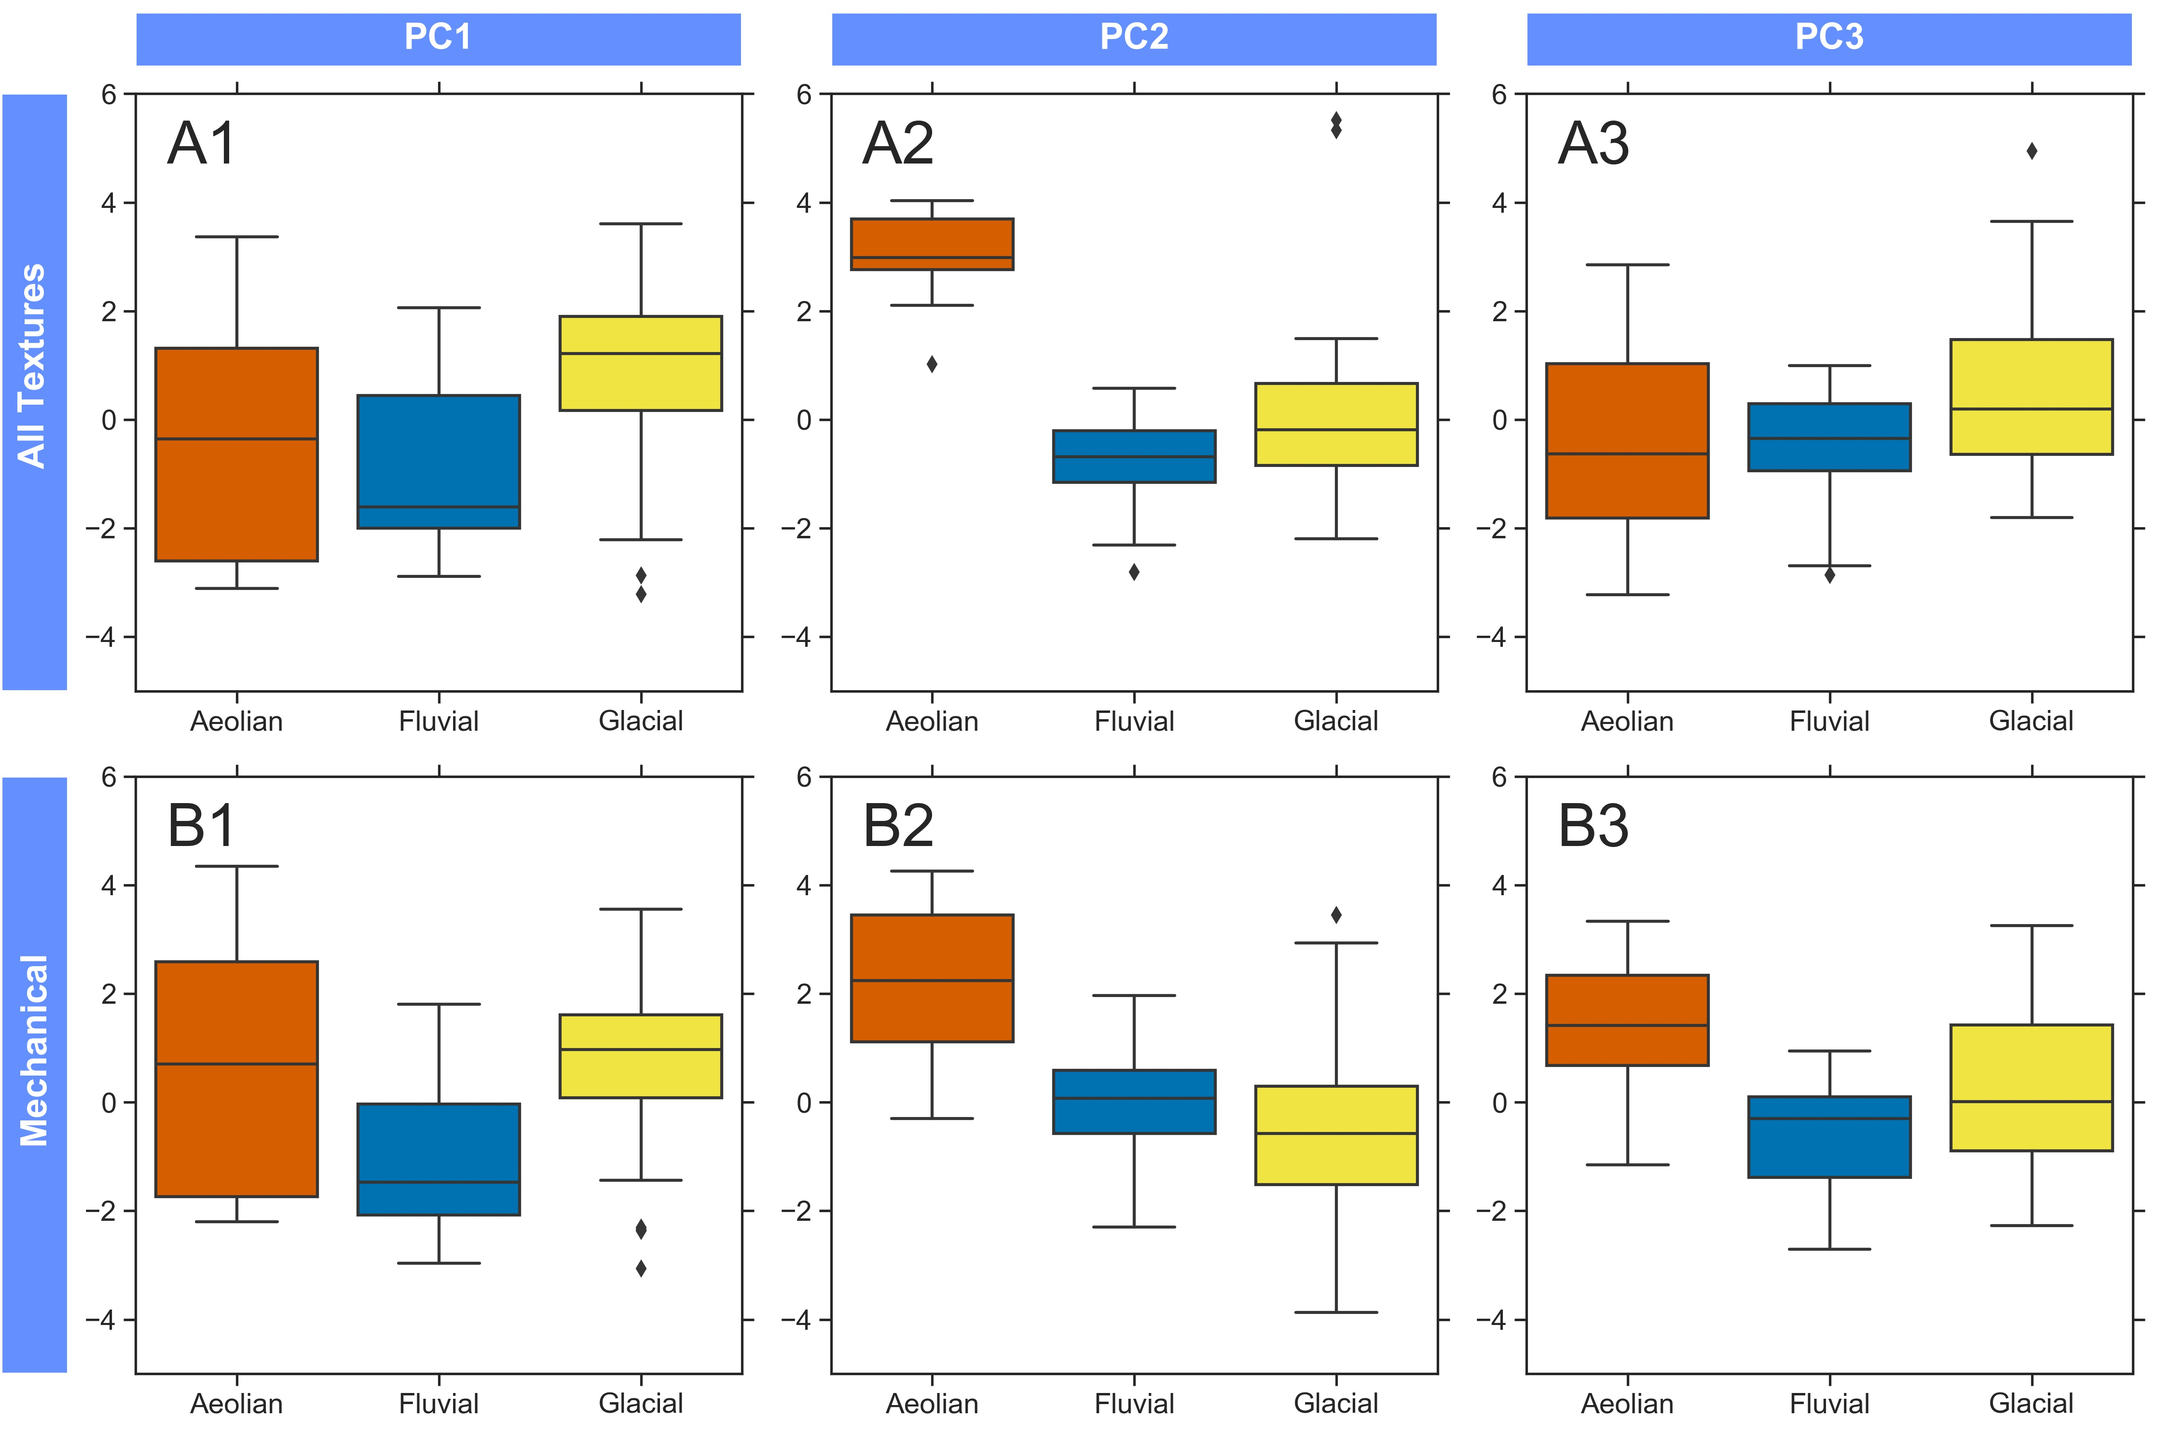
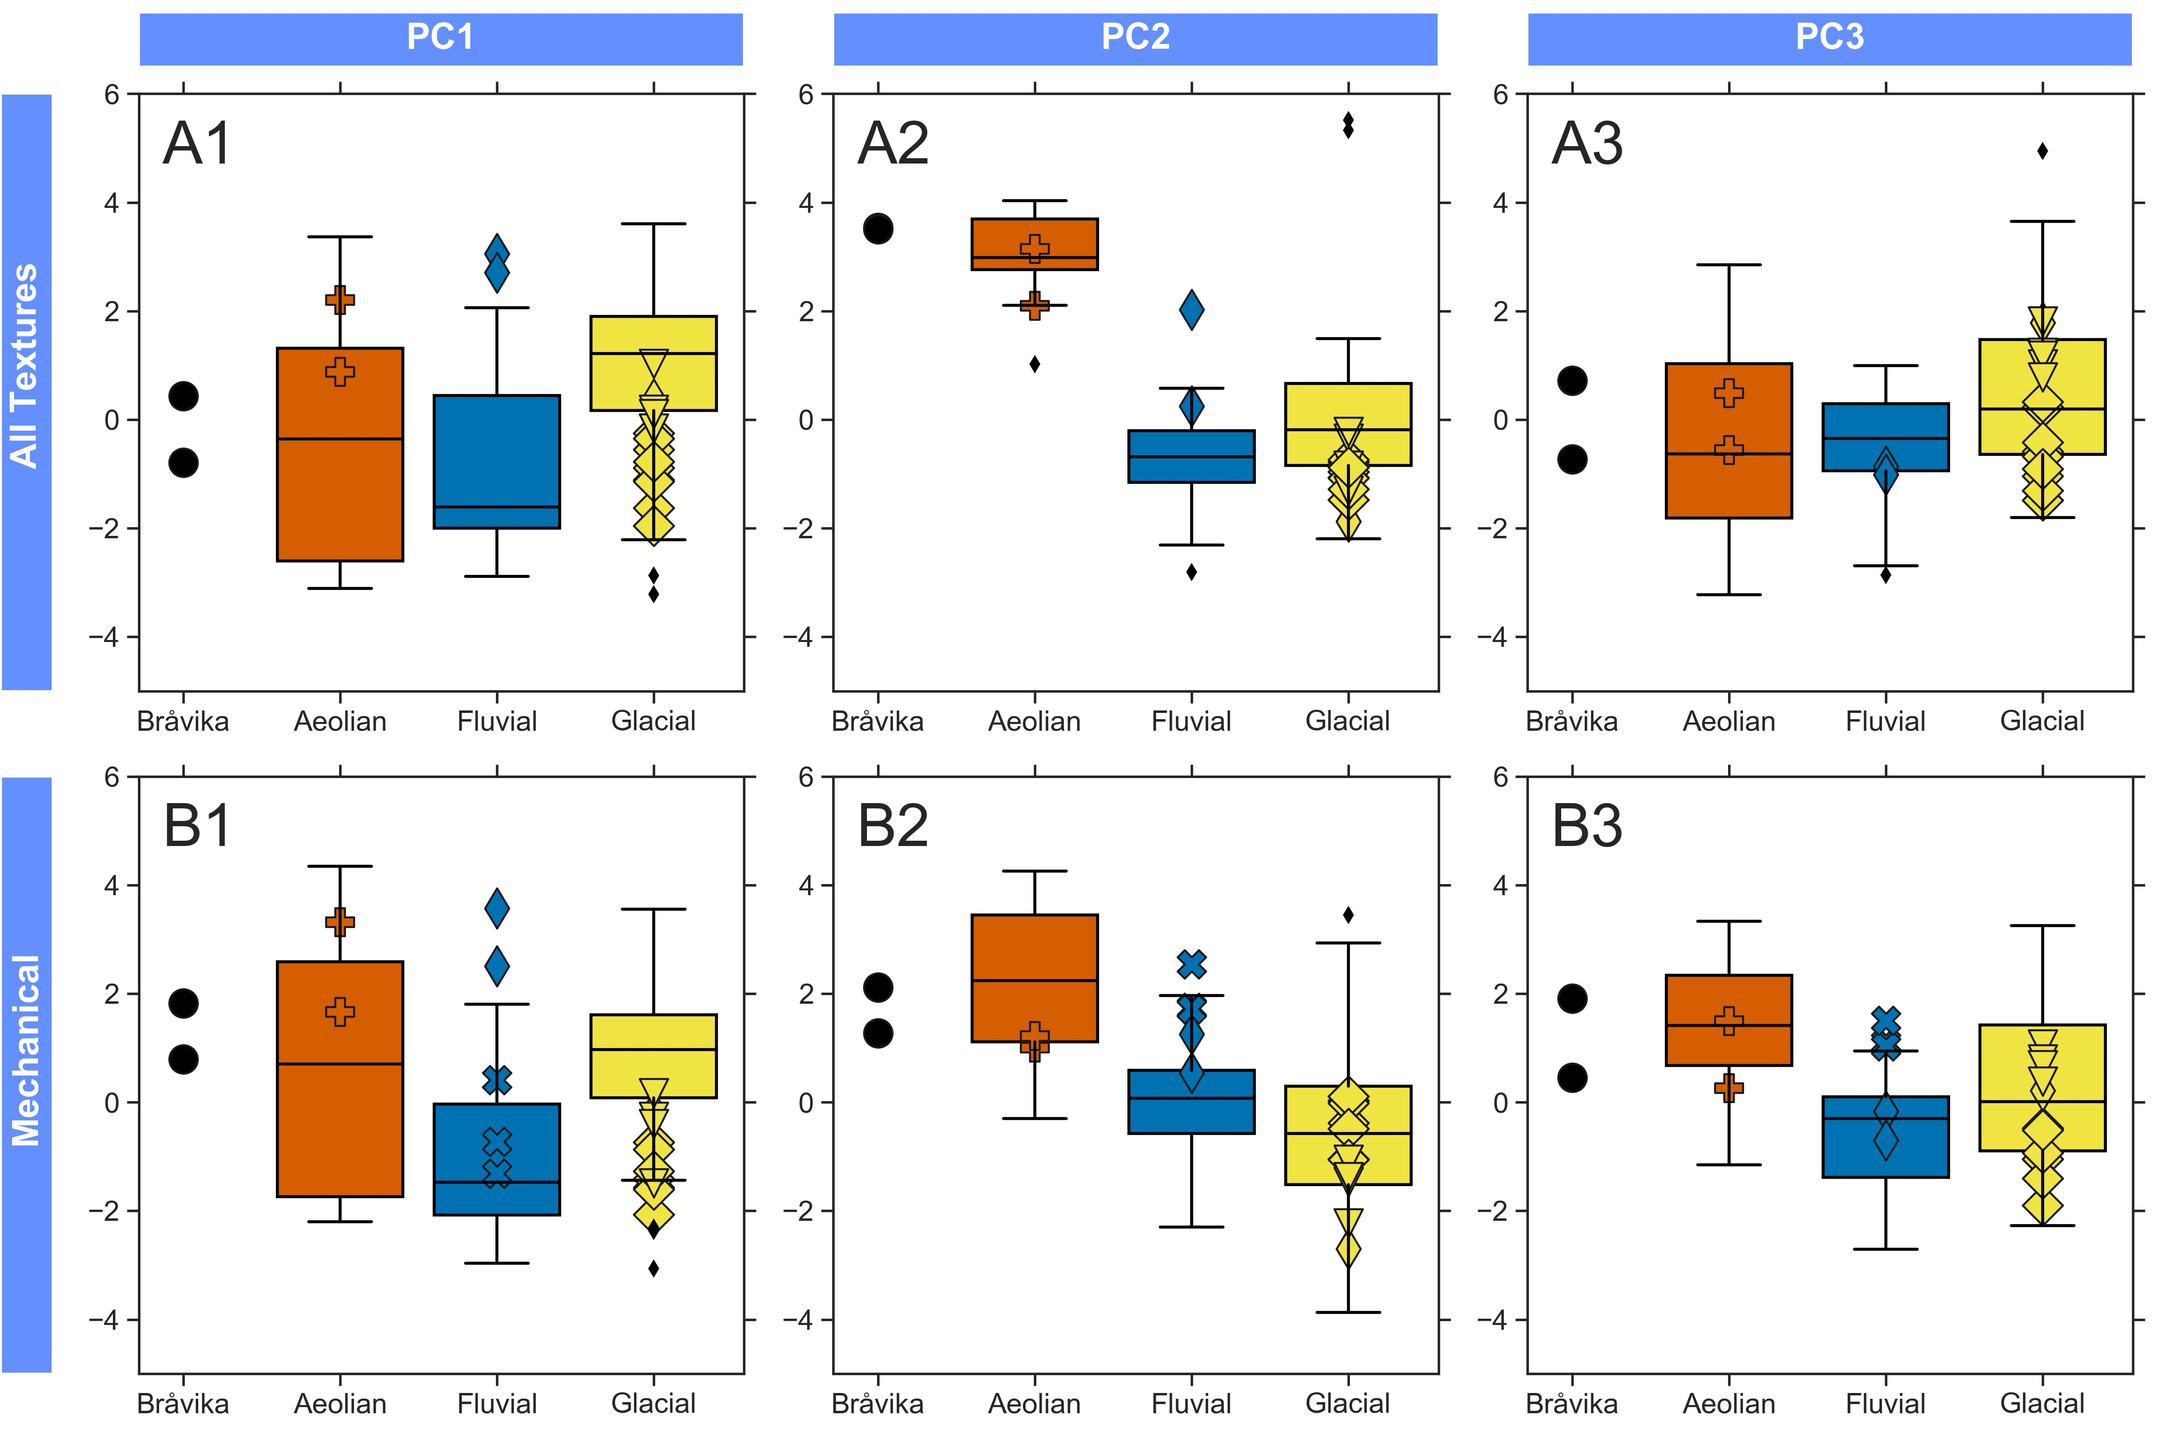
Adding ancient points to BOXPLOT-TRANSPORT

diff --git a/Code/Boxplots.py b/Code/Boxplots.py
@@ -22,19 +22,39 @@ tex_allauthors = ['as', 'cf', 'cg', 'er', 'ls', 'pf', 'saf', 'slf', 'vc',
 tex_mechanical = ['as', 'cf', 'cg', 'er', 'ls', 'saf', 'slf', 'vc', 'low',
                   'med', 'high']
 modern = master2[master2['relage'] == 'Active']
+ancient = master2[master2['relage'] == 'Ancient']
 
 
-def run_PCA(dataset, tex):
+def run_PCA_fit_transform(dataset, tex):
     data = dataset.loc[:, tex]
     scaled_data = preprocessing.scale(data)
     pca = PCA()
-    pca_ref = pca.fit_transform(scaled_data)
-    per_var = np.round(pca.explained_variance_ratio_*100,
-                                    decimals=2)
+    pca_fit_transform = pca.fit_transform(scaled_data)
+    per_var = np.round(pca.explained_variance_ratio_*100, decimals=2)
     components = ['PC' + str(x) for x in range(1, len(per_var)+1)]
-    pca_df = pd.DataFrame(pca_ref, columns=components)
-    pca_df['transport'] = dataset['transport']
-    pca_df['author'] = dataset['author']
+    pca_df = pd.DataFrame(pca_fit_transform, columns=components)
+    pca_df['transport'] = list(dataset['transport'])
+    pca_df['author'] = list(dataset['author'])
+    return pca_df, pca
+
+
+def run_PCA_transform(dataset, tex, pca):
+    if 'pf' in set(tex):
+        dataset = dataset[dataset['author'] != 'Sweet_2010']
+        data = dataset.loc[:, tex]
+    else:
+        data = dataset.loc[:, tex]
+    scaled_data = preprocessing.scale(data)
+    pca_transform = pca.transform(scaled_data)
+    per_var = np.round(np.round(pca.explained_variance_ratio_*100,
+                                decimals=1))
+    components = ['PC' + str(x) for x in range(1, len(per_var)+1)]
+    pca_df = pd.DataFrame(pca_transform, columns=components)
+    pca_df['transport'] = list(dataset['transport'])
+    pca_df['author'] = list(dataset['author'])
+    pca_df['marker'] = list(dataset['marker'])
+    pca_df['color'] = list(map(lambda s: s.replace('\ufeff', ''),
+                               dataset['transportcolor']))
     return pca_df
 
 
@@ -52,9 +72,12 @@ def calc_boxplot(dataset, ordination, groupcolumn, groupstr, PC):
 transport = ['Aeolian', 'Fluvial', 'Glacial']
 authors = ['this study', 'Smith_2018', 'Kalinska-Nartisa_2017', 'Sweet_2016',
            'Stevic_2015', 'Mahaney_1996']
-allauthors = run_PCA(modern, tex_allauthors)
-mechanical = run_PCA(modern, tex_mechanical)
-data = [allauthors, mechanical]
+modern_aa, pca_aa = run_PCA_fit_transform(modern, tex_allauthors)
+modern_me, pca_me = run_PCA_fit_transform(modern, tex_mechanical)
+ancient_aa = run_PCA_transform(ancient, tex_allauthors, pca_aa)
+ancient_me = run_PCA_transform(ancient, tex_mechanical, pca_me)
+data_modern = [modern_aa, modern_me]
+data_ancient = [ancient_aa, ancient_me]
 statistics = pd.DataFrame(columns=['type', 'group', 'PC', 'q25', 'q50',
                                    'q75', 'h1', 'h2'],
                           index=np.arange(0, 18))
@@ -63,33 +86,33 @@ for i in range(int(len(statistics)/3)):
     for j in range(3):
         if i*3+j < 9:
             if i == 0:
-                statistics.loc[i*3+j, :] = calc_boxplot(allauthors,
+                statistics.loc[i*3+j, :] = calc_boxplot(modern_aa,
                                                         'All Textures',
                                                         'transport',
                                                         transport[j],'PC1')
             elif i == 1:
-                statistics.loc[i*3+j, :] = calc_boxplot(allauthors,
+                statistics.loc[i*3+j, :] = calc_boxplot(modern_aa,
                                                         'All Textures',
                                                         'transport',
                                                         transport[j], 'PC2')
             elif i == 2:
-                statistics.loc[i*3+j, :] = calc_boxplot(allauthors,
+                statistics.loc[i*3+j, :] = calc_boxplot(modern_aa,
                                                         'All Textures',
                                                         'transport',
                                                         transport[j], 'PC3')
         elif i*3+j >= 9:
             if i == 3:
-                statistics.loc[i*3+j, :] = calc_boxplot(mechanical,
+                statistics.loc[i*3+j, :] = calc_boxplot(modern_me,
                                                         'Mechanical',
                                                         'transport',
                                                         transport[j],'PC1')
             elif i == 4:
-                statistics.loc[i*3+j, :] = calc_boxplot(mechanical,
+                statistics.loc[i*3+j, :] = calc_boxplot(modern_me,
                                                         'Mechanical',
                                                         'transport',
                                                         transport[j], 'PC2')
             elif i == 5:
-                statistics.loc[i*3+j, :] = calc_boxplot(mechanical,
+                statistics.loc[i*3+j, :] = calc_boxplot(modern_me,
                                                         'Mechanical',
                                                         'transport',
                                                         transport[j], 'PC3')
@@ -103,38 +126,46 @@ for i in range(int(len(statistics)/6)):
     for j in range(6):
         if i*6+j < 18:
             if i == 0:
-                statistics.loc[i*6+j, :] = calc_boxplot(allauthors,
+                statistics.loc[i*6+j, :] = calc_boxplot(modern_aa,
                                                         'All Textures',
                                                         'author',
                                                         authors[j],'PC1')
             elif i == 1:
-                statistics.loc[i*6+j, :] = calc_boxplot(allauthors,
+                statistics.loc[i*6+j, :] = calc_boxplot(modern_aa,
                                                         'All Textures',
                                                         'author',
                                                         authors[j], 'PC2')
             elif i == 2:
-                statistics.loc[i*6+j, :] = calc_boxplot(allauthors,
+                statistics.loc[i*6+j, :] = calc_boxplot(modern_aa,
                                                         'All Textures',
                                                         'author',
                                                         authors[j], 'PC3')
         elif i*6+j >= 18:
             if i == 3:
-                statistics.loc[i*6+j, :] = calc_boxplot(mechanical,
+                statistics.loc[i*6+j, :] = calc_boxplot(modern_me,
                                                         'Mechanical',
                                                         'author',
                                                         authors[j],'PC1')
             elif i == 4:
-                statistics.loc[i*6+j, :] = calc_boxplot(mechanical,
+                statistics.loc[i*6+j, :] = calc_boxplot(modern_me,
                                                         'Mechanical',
                                                         'author',
                                                         authors[j], 'PC2')
             elif i == 5:
-                statistics.loc[i*6+j, :] = calc_boxplot(mechanical,
+                statistics.loc[i*6+j, :] = calc_boxplot(modern_me,
                                                         'Mechanical',
                                                         'author',
                                                         authors[j], 'PC3')
 statistics.to_excel('STATISTICS-AUTHOR.xlsx')
 
+transport = ['Bravika', 'Aeolian', 'Fluvial', 'Glacial']
+ancient_aa.transport = ancient_aa.transport.astype('category')
+ancient_aa.transport.cat.set_categories(transport, inplace=True)
+ancient_me.transport = ancient_me.transport.astype('category')
+ancient_me.transport.cat.set_categories(transport, inplace=True)
+
+ancient_aa = ancient_aa.sort_values(['transport'])
+ancient_me = ancient_me.sort_values(['transport'])
 fig, ax = plt.subplots(2, 3, figsize=(15, 10))
 for i in range(2):
     for j in range(3):
@@ -142,14 +173,40 @@ for i in range(2):
                              labeltop=False, right=True, labelright=False,
                              left=True, bottom=True, labelsize=14)
         if i == 0:
+            # sns.stripplot(x='transport', y='PC' + str(j+1),
+            #               order=['Bravika', 'Aeolian', 'Fluvial',
+            #                       'Glacial'],
+            #               palette=['#000000', '#D55E00', '#0072B2',
+            #                         '#F0E442'], data=ancient_aa,
+            #               ax=ax[i, j])
             sns.boxplot(x='transport', y='PC' + str(j+1), order=transport,
-                        palette=['#D55E00', '#0072B2', '#F0E442'],
-                        data=allauthors, ax=ax[i, j], saturation=1,
+                        palette=['#000000', '#D55E00', '#0072B2', '#F0E442'],
+                        data=modern_aa, ax=ax[i, j], saturation=1,
                         notch=False, bootstrap=10000)
-            ax[i, j].add_patch(Rectangle((-0.5, 6.5), 3, 1, clip_on=False,
-                                         fill=True, facecolor='#648FFF',
-                                         edgecolor='w'))
-            ax[i, j].text(1, 7, 'PC'+str(j+1), size=18, c='w',
+            for k in range(len(ancient_aa)):
+                ax[i, j].scatter(ancient_aa['transport'].iloc[k],
+                                 ancient_aa['PC' + str(j+1)].iloc[k],
+                                 facecolors=ancient_aa['color'].iloc[k],
+                                 edgecolors='k',
+                                 s=200,
+                                 marker=ancient_aa['marker'].iloc[k])
+            #     sns.stripplot(x='transport',
+            #                   y='PC' + str(j+1),
+            #                   order=['Bravika', 'Aeolian', 'Fluvial',
+            #                           'Glacial'],
+            #                   palette=['#000000', '#D55E00', '#0072B2',
+            #                             '#F0E442'], data=ancient_aa,
+            #                   ax=ax[i, j],
+            #                   marker=ancient_aa['marker'].iloc[k])
+            ax[i, j].set_xticks(np.arange(0, 4))
+            ax[i, j].set_xticklabels(['Bråvika', 'Aeolian', 'Fluvial', 'Glacial'])
+            mi, ma = ax[i, j].get_xlim()
+            ax[i, j].add_patch(Rectangle((mi, 6.5),
+                                          ma-mi,
+                                          1, clip_on=False,
+                                          fill=True, facecolor='#648FFF',
+                                          edgecolor='w'))
+            ax[i, j].text(mi + (ma-mi)/2, 7, 'PC'+str(j+1), size=18, c='w',
                           horizontalalignment='center',
                           verticalalignment='center', weight='bold',
                           rotation=0)
@@ -161,22 +218,31 @@ for i in range(2):
                               horizontalalignment='center',
                               verticalalignment='center', weight='bold',
                               rotation=90)
-                ax[i, j].text(-0.165, 5, 'A1', size=30,
+                ax[i, j].text(0.1, 5, 'A1', size=30,
                               horizontalalignment='center',
                               verticalalignment='center')
             elif j == 1:
-                ax[i, j].text(-0.165, 5, 'A2', size=30,
+                ax[i, j].text(0.1, 5, 'A2', size=30,
                               horizontalalignment='center',
                               verticalalignment='center')
             elif j == 2:
-                ax[i, j].text(-0.165, 5, 'A3', size=30,
+                ax[i, j].text(0.1, 5, 'A3', size=30,
                               horizontalalignment='center',
                               verticalalignment='center')
         elif i == 1:
             sns.boxplot(x='transport', y='PC' + str(j+1), order=transport,
-                        palette=['#D55E00', '#0072B2', '#F0E442'],
-                        data=mechanical, ax=ax[i, j], saturation=1,
+                        palette=['#000000', '#D55E00', '#0072B2', '#F0E442'],
+                        data=modern_me, ax=ax[i, j], saturation=1,
                         notch=False, bootstrap=10000)
+            for k in range(len(ancient_aa)):
+                ax[i, j].scatter(ancient_me['transport'].iloc[k],
+                                 ancient_me['PC' + str(j+1)].iloc[k],
+                                 facecolors=ancient_me['color'].iloc[k],
+                                 edgecolors='k',
+                                 s=200,
+                                 marker=ancient_me['marker'].iloc[k])
+            ax[i, j].set_xticks(np.arange(0, 4))
+            ax[i, j].set_xticklabels(['Bråvika', 'Aeolian', 'Fluvial', 'Glacial'])
             if j == 0:
                 ax[i, j].add_patch(Rectangle((-1.165, -5), 0.33, 11, 
                                          clip_on=False, fill=True,
@@ -185,15 +251,15 @@ for i in range(2):
                               horizontalalignment='center',
                               verticalalignment='center', weight='bold',
                               rotation=90)
-                ax[i, j].text(-0.165, 5, 'B1', size=30,
+                ax[i, j].text(0.1, 5, 'B1', size=30,
                               horizontalalignment='center',
                               verticalalignment='center')
             elif j == 1:
-                ax[i, j].text(-0.165, 5, 'B2', size=30,
+                ax[i, j].text(0.1, 5, 'B2', size=30,
                               horizontalalignment='center',
                               verticalalignment='center')
             elif j == 2:
-                ax[i, j].text(-0.165, 5, 'B3', size=30,
+                ax[i, j].text(0.1, 5, 'B3', size=30,
                               horizontalalignment='center',
                               verticalalignment='center')
         ax[i, j].set_ylim(-5, 6)
@@ -216,7 +282,7 @@ for i in range(2):
                                'Stevic_2015', 'Mahaney_1996'],
                         # hue_order=['Aeolian', 'Fluvial', 'Glacial'],
                         # palette=['#D55E00', '#0072B2', '#F0E442'],
-                        data=allauthors, ax=ax[i, j], saturation=1)
+                        data=modern_aa, ax=ax[i, j], saturation=1)
             ax[i, j].add_patch(Rectangle((-0.5, 6.5), 6, 1, clip_on=False,
                                          fill=True, facecolor='#648FFF',
                                          edgecolor='w'))
@@ -250,7 +316,7 @@ for i in range(2):
                                'Stevic_2015', 'Mahaney_1996'],
                         # hue_order=['Aeolian', 'Fluvial', 'Glacial'],
                         # palette=['#D55E00', '#0072B2', '#F0E442'],
-                        data=mechanical, ax=ax[i, j], saturation=1)
+                        data=modern_me, ax=ax[i, j], saturation=1)
             if j == 0:
                 ax[i, j].add_patch(Rectangle((-1.5, -5), 0.5, 11, 
                                          clip_on=False, fill=True,
